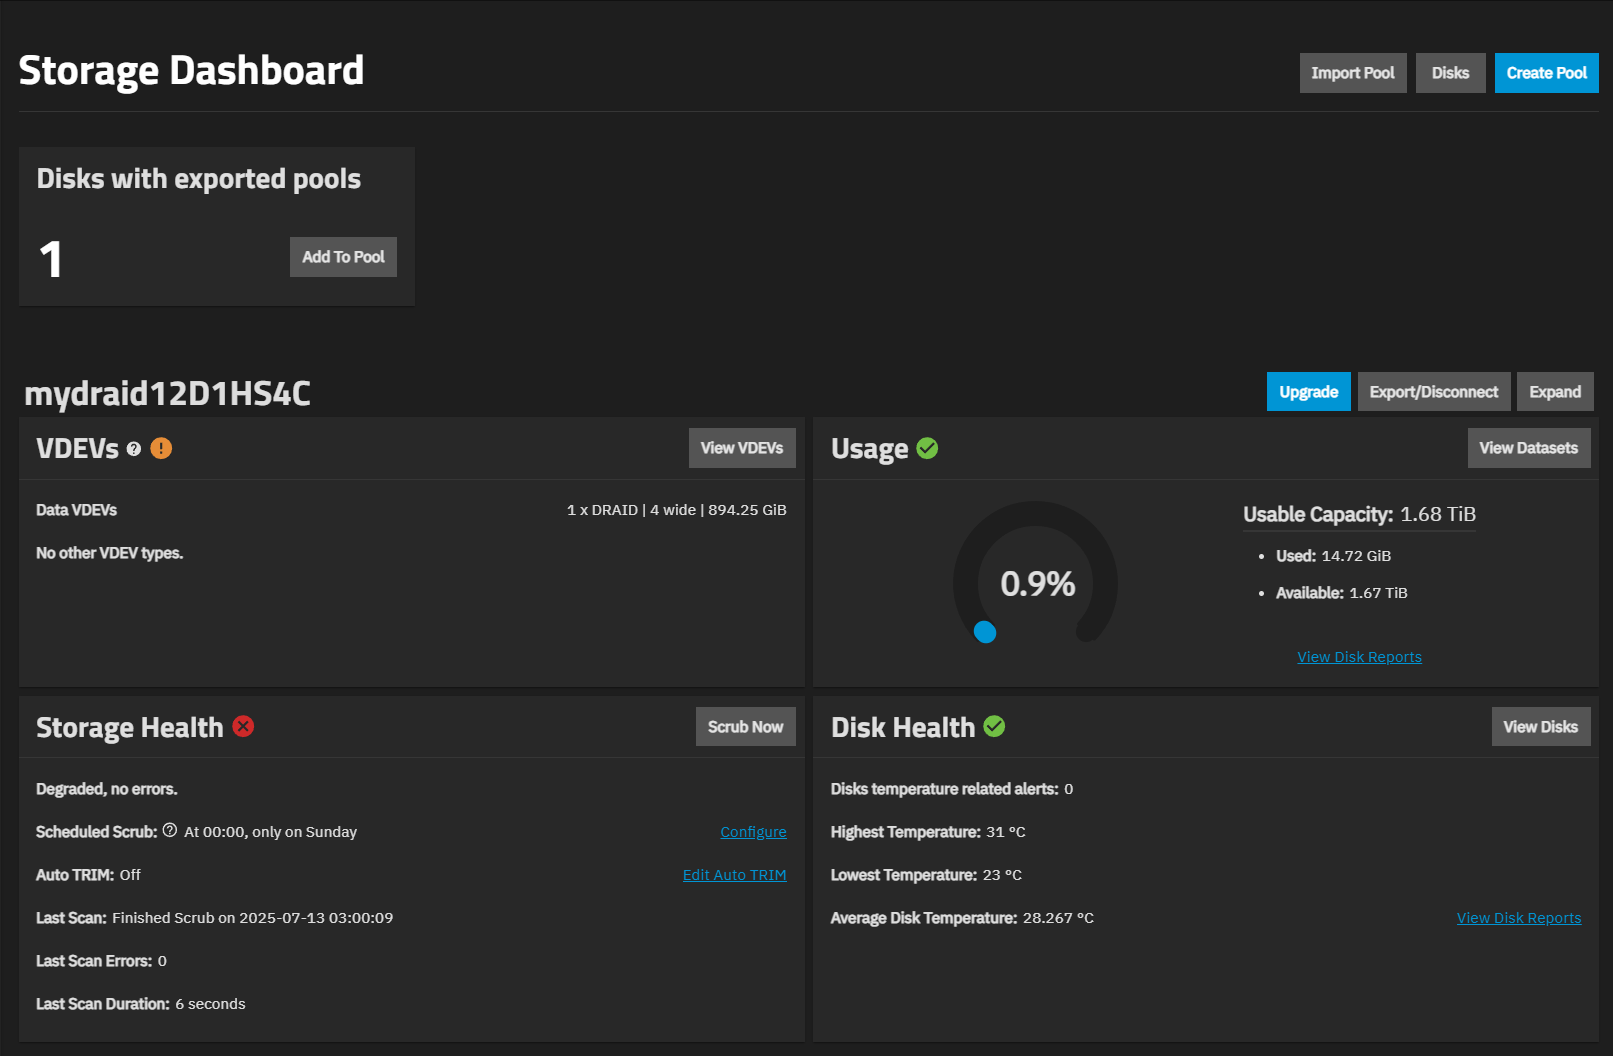
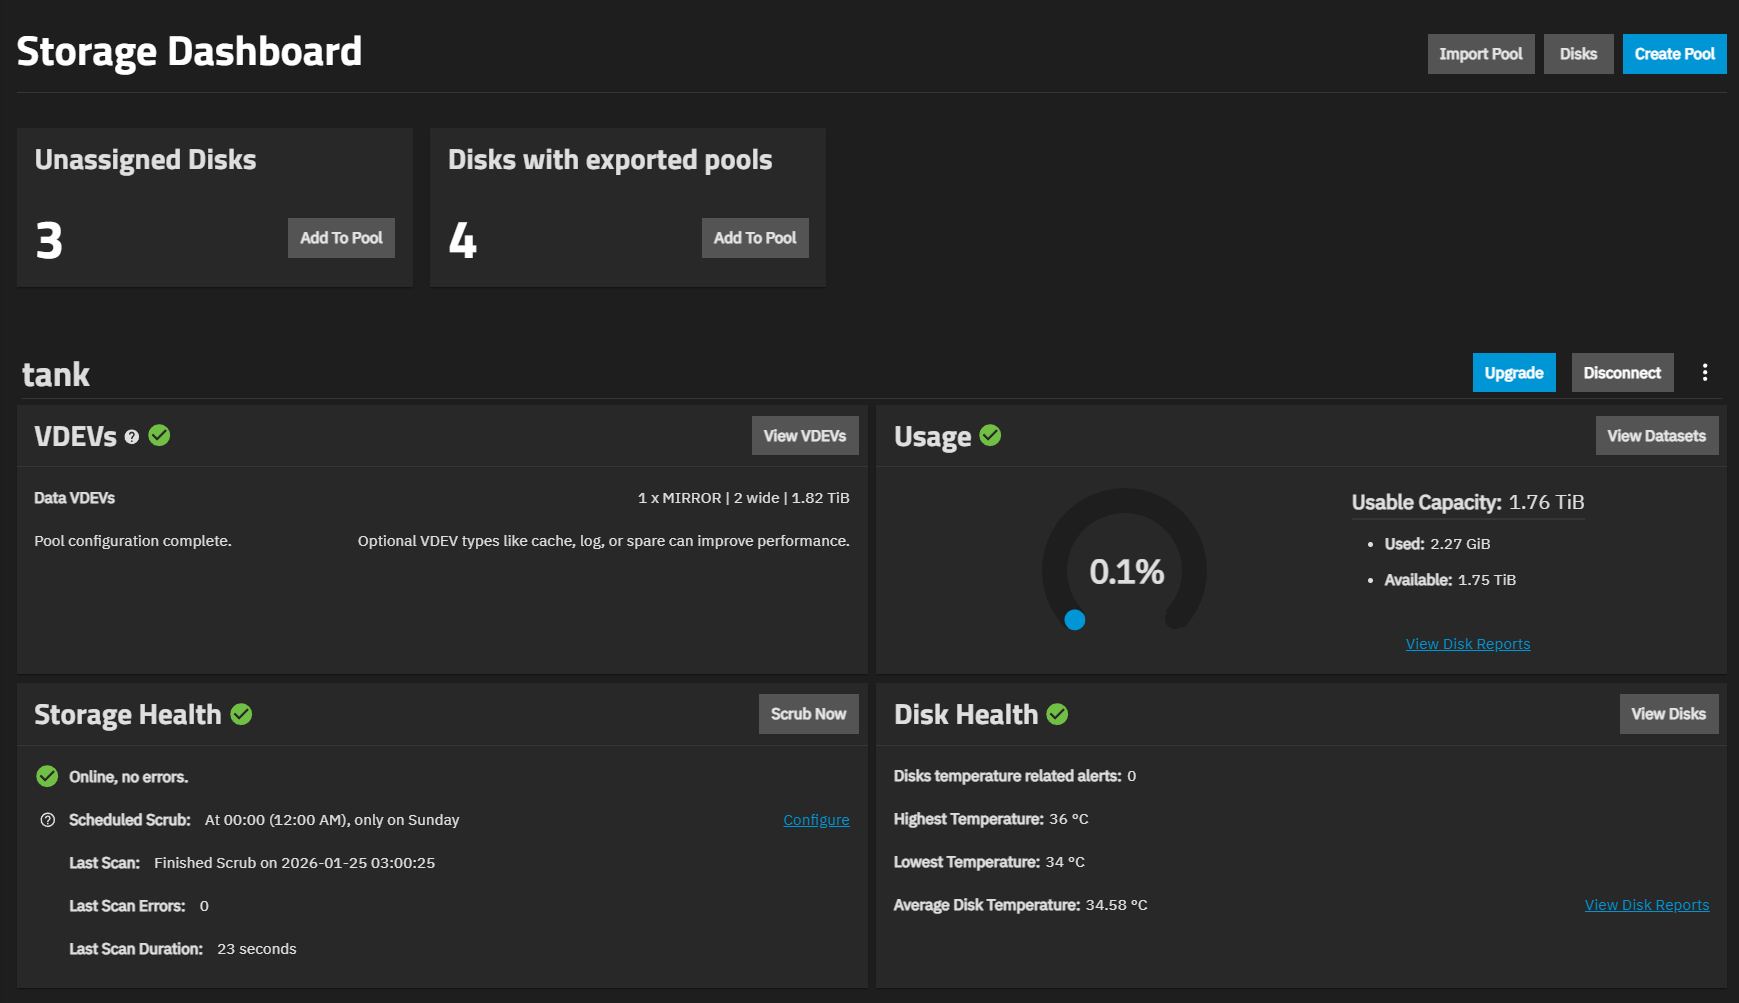
PD-2497 Update Storage UI ref and tutorials with changes in release 26
These changes apply to the 26 release and do not backport to 25.10.x or earlier releases.

This PR updates the screenshots for the Storage Dashboard and the Disconnect window, and the content related to deleting, exporting, expanding, and setting Auto TRIM for a pool.

It updates the UI ref with new screenshots and reorganizes the flow  for all buttons and functions for a pool. It moves the Update dialog to an expand bullet point with the other button functions.

It updates the ManagePoolsSCALE.md tutorial with new screenshots and instructions for the Disconnect button, which provides the Export Pool and Delete Pool options. It also cleans up the bullet list that did not follow parallel construction rules.
Each area impacted by changes on the Storage Dashboard are updated with new information.

diff --git a/content/SCALE/SCALEUIReference/Storage/_index.md b/content/SCALE/SCALEUIReference/Storage/_index.md
@@ -32,6 +32,10 @@ The **Create Pool** button in the center of the screen opens the **[Pool Creatio
 
 ## Storage Dashboard
 
+After adding pools, the dashboard shows the [pool widgets](#pool-widgets), the **Update** and **Disconnect** buttons, and a <span class="material-icons">more_vert</span> dropdown menu with more options: **Expand Pool** and **AutoTrim**.
+
+{{< trueimage src="/images/SCALE/Storage/StorageDashboardWithPool.png" alt="Storage Dashboard with Pool" id="Storage Dashboard with Pool" >}}
+
 The buttons at the top right of the **Storage Dashboard** screen provide access to pool and disk functions:
 
 * {{< expand "Import Pool" "v" >}}
@@ -50,41 +54,55 @@ TrueNAS detects these as present on the system but not yet connected in TrueNAS.
 * **Disks** opens the **[Disks]({{< ref "DisksScreen" >}})** screen.
 * **Create Pool** opens the **[Pool Creation Wizard]({{< ref "PoolCreateWizardScreens" >}})**.
 
-After adding pools, the dashboard shows the [pool widgets](#pool-widgets) and additional buttons.
+* {{< expand "Disconnect Button" "v" >}}
+The **Disconnect** button opens a **Disconnect Pool: *poolname*** window with two options: **Export Pool** and **Delete Pool**.
+Each option changes what shows in this window.
 
-{{< trueimage src="/images/SCALE/Storage/StorageDashboardWithPool.png" alt="Storage Dashboard with Pool" id="Storage Dashboard with Pool" >}}
+The **Disconnect Pool** window shows a different warning statement below the delete and export options.
+The **Delete Pool** warning states all data is deleted from the pool, and instructs users to back up critical data before deleting the pool.
+The **Export Pool** warning states you lose access to data in the exported pool until you import the pool, and instructs users to back up criical data before exporting the pool.
 
-* {{< expand "Export/Disconnect" "v" >}}
-**Export/Disconnect** opens the **Export/disconnect pool: *poolname*** window where users can export, disconnect, or delete a pool.
-
-The **Export/disconnect pool** window includes a warning stating that data becomes unavailable after export and that selecting **Destroy Data on this pool** destroys data on the pool disks.
+Expand the **System dataset will be moved off this pool** message to shows the full statement about the system dataset.
 
 {{< hint type=important >}}
-Exporting/disconnecting can be a destructive process!
+Exporting/deleting can be a destructive process!
 Back up all data before performing this operation. You might not be able to recover data lost through this operation.
 {{< /hint >}}
 
-{{< trueimage src="/images/SCALE/Storage/ExportDisconnectPoolWindow.png" alt="Export/Disconnect Pool Window" id="Export/Disconnect Pool Window" >}}
+<div style="display: flex; gap: 20px; justify-content: center; flex-wrap: wrap;">
+  <figure style="margin: 0; flex: 1; max-width: 600px; text-align: center;">
+    <img src="/images/SCALE/Storage/Diconnect-DeletePoolWindow.png" alt="Disconnect Delete Pool Window" style="width: 100%; height: auto; display: block;">
+    <figcaption style="margin-top: 8px; font-style: bold; color: #555; text-align: left;">
+      <b>Figure 3: Disconnect Delete Pool Window</b>
+    </figcaption>
+  </figure>
 
-This window displays the share type (i.e., SMB share, etc.) affected by the export/disconnect operation if a share uses the pool.
+  <figure style="margin: 0; flex: 1; max-width: 600px; text-align: center;">
+    <img src="/images/SCALE/Storage/Disconnect-ExportPoolWindow.png" alt="Disconnect Export Pool Window" style="width: 100%; height: auto; display: block;">
+    <figcaption style="margin-top: 8px; font-style: bold; color: #555; text-align: left;">
+      <b>Figure 4: Disconnect Export Pool Window</b>
+    </figcaption>
+  </figure>
+</div>
 
-Disks in an exported pool become available to use in a new pool but remain marked as used by an exported pool.
+The **Remove all related configurations** and **Confirm Delete Pool** shows at the bottom of the window after selecting **Delete Pool**.
+The text field below shows after selecting the **Remove all related configuration** option.
+This field accepts typed or copy/paste of the pool name.
+
+**Deleted Saved Configurations from TrueNAS** and **Confirm Export Pool** shows at the bottom of the window after selecting **Export Pool**.
+A text field below these options shows after selecting **Confirm Export Pool**.
+This field accepts typed or copy/paste of the pool name.
+
+**Disconnect** activates after entering the pool name in the confirmation field.
+
+Disks in an exported pool become available for use in a new pool but remain marked as used by an exported pool.
 If you select a disk used by an exported pool for use in a new pool, the system displays a warning message about the disk.
 
-{{< truetable >}}
-| Setting | Description |
-|---------|-------------|
-| **Destroy data on this pool?** | Select to erase all data on the pool. A field displays where you enter the pool name to confirm the operation before the **Export/Disconnect** button activates. |
-| **Delete configuration of shares that use this pool** | Enabled by default to remove the share connection to this pool. Exporting or disconnecting the pool deletes the configuration of shares using this pool. You must reconfigure the shares affected by this operation. |
-| **Confirm Export/Disconnect** | (Required) Select to confirm the operation and accept the warnings displayed. Activates the **Export/Disconnect** button. |
-{{< /truetable >}}
-
-**Export/Disconnect** executes the process and begins the pool export or disconnect.
 A status window shows progress. When complete, a final dialog states that the export/disconnect completed successfully.
 {{< /expand >}}
 
 * {{< expand "Expand Pool" "v" >}}
-Select **Expand Pool** to increase the pool size to match all available disk space.
+Select **Expand Pool** on the <span class="material-icons">more_vert</span> dropdown menu to increase the pool size to match all available disk space.
 Users with pools using virtual disks use this option to resize these virtual disks apart from TrueNAS.
 
 {{< trueimage src="/images/SCALE/Storage/ExpandPoolDialog.png" alt="Expand Pool Dialog" id="Expand Pool Dialog" >}}
@@ -92,7 +110,35 @@ Users with pools using virtual disks use this option to resize these virtual dis
 **Confirm** activates the **Continue** button.
  {{< /expand >}}
 
-* **[Upgrade](#upgrade-dialog)**
+* {{< expand "AutoTrim" "v" >}}
+
+The **Auto TRIM** option on the <span class="material-icons">more_vert</span> dropdown menu opens the **AutoTRIM** dialog.
+The **ZFS Health** widget shows whether this function is set to on.
+
+{{< trueimage src="/images/SCALE/Storage/PoolOptionsAuotTRIM.png" alt="Pool Option Auto TRIM" id="Pool Option Auto TRIM" >}}
+
+When enabled, **Auto TRIM** allows TrueNAS to periodically review data blocks and identify which empty blocks of obsolete blocks it can delete.
+Leave unselected to incorporate day block overwrites when a device write is started (default).
+Select **Confirm** to activate **Save**.
+
+For more details about TRIM in ZFS, see the `autotrim` property description in [zpool.8](https://zfsonlinux.org/manpages/0.8.1/man8/zpool.8.html).
+  {{< /expand >}}
+
+* {{< expand "Upgrade" "v" >}}
+
+The **Storage Dashboard** shows the **Upgrade** button for existing pools after an upgrade to a new TrueNAS release that includes new [OpenZFS feature flags]({{< ref "VersionNotes.md#component-versions" >}}).
+Newly created pools are always up-to-date with the OpenZFS feature flags in the installed TrueNAS release.
+
+{{< include file="/static/includes/UpgradePools.md" >}}
+
+{{< trueimage src="/images/SCALE/Storage/StorageDashboardUpgradPoolConfirmation.png" alt="Upgrade Pool Dialog" id="Upgrade Pool Dialog" >}}
+
+The upgrade only takes a few seconds and is non-disruptive. However, it is best to upgrade when the pool is not in heavy use.
+
+The upgrade process suspends I/O for a short period but is nearly instantaneous on a quiet pool.
+
+It is not necessary to stop any sharing services to upgrade the pool.
+{{< /expand >}}
 
 ## Storage Dashboard Widgets
 
@@ -100,14 +146,13 @@ After adding a pool, the screen displays storage and pool widgets.
 
 The set of four pool widgets and the **Export/Disconnect** and **Expand** buttons show for each pool created on the system.
 
-
 Each set of pool widgets provides access to screens for disks, datasets, VDEVs, snapshots, quotas, and pool ZFS functions for the pool.
 For example, **Manage Devices** on the **Topology** widget opens the **Devices** screen with the VDEVs configured for only that pool.
 
-### Unassigned Disks Widget
+### Unassigned Disks and Disks with exported pools Widgets
 
 The **Unassigned Disks** widget at the top of the **Storage Dashboard** shows when disks are available to add to a new or existing pool.
-If the system has disks available and that are associated with exported pools, the **Disks with Exported pools** shows instead.
+If the system has disks available and that are associated with exported pools, the **Disks with exported pools** shows instead.
 The number of available disks shows, and the **Add to Pool** button.
 The pool with the system dataset, and the state of the pool, shows in the dialog.
 
@@ -195,7 +240,7 @@ The **Storage Health** widget shows health-of-the-pool information.
 Possible widget details include:
 * Pool status shows the pool status as** Online, no errors** or **Offline**, **Degraded no errors**.
 * **Scheduled Scrub** shows the time based on a 24-hour clock and frequency of a scheduled scrub (the day the task runs).
-* **Auto TRIM** shows the auto trim feature as on or off.
+* **Auto TRIM** shows when the auto trim feature is on or off.
 * **Last Scan** shows the date and time of the last completed scrub.
 * **Last Scan Errors** shows the number of errors detected during the last scrub.
 * **Last Scan Duration** shows the time, in minutes and seconds, that the last scrub ran.
@@ -245,18 +290,6 @@ Using a multiple of *seven* ensures the scrub always occurs on the same weekday.
 Starting in TrueNAS 25.10, resilver priority settings are now located in **System Settings > Advanced Settings** on the **Storage** widget.
 {{< /hint >}}
 
-#### Auto TRIM Dialog
-
-The **Edit Auto TRIM** option on the **ZFS Health** widget opens a dialog to set **Auto TRIM**.
-
-{{< trueimage src="/images/SCALE/Storage/PoolOptionsAuotTRIM.png" alt="Pool Option Auto TRIM" id="Pool Option Auto TRIM" >}}
-
-When enabled, **Auto TRIM** allows TrueNAS to periodically review data blocks and identify which empty blocks of obsolete blocks it can delete.
-Leave unselected to incorporate day block overwrites when a device write is started (default).
-Select **Confirm** to activate **Save**.
-
-For more details about TRIM in ZFS, see the `autotrim` property description in [zpool.8](https://zfsonlinux.org/manpages/0.8.1/man8/zpool.8.html).
-
 #### Prune Deduplication Table Dialog
 
 The **Prune Deduplication Table** dialog shows pruning measurement options the system should use when pruning the deduplication table (DDT).
@@ -303,21 +336,6 @@ TrueNAS complies with SAS/SATA specifications and reports temperatures in Celsiu
 **View Disks** opens the **Storage > [Disk]({{< ref "DisksScreen" >}})** screen.
 
 **View Reports** opens the **Report** screen for the disks in the selected pool.
-
-## Upgrade Dialog
-
-The **Storage Dashboard** shows the **Upgrade** button for existing pools after an upgrade to a new TrueNAS release that includes new [OpenZFS feature flags]({{< ref "VersionNotes.md#component-versions" >}}).
-Newly created pools are always up-to-date with the OpenZFS feature flags in the installed TrueNAS release.
-
-{{< include file="/static/includes/UpgradePools.md" >}}
-
-{{< trueimage src="/images/SCALE/Storage/StorageDashboardUpgradPoolConfirmation.png" alt="Upgrade Pool Dialog" id="Upgrade Pool Dialog" >}}
-
-The upgrade only takes a few seconds and is non-disruptive. However, it is best to upgrade when the pool is not in heavy use.
-
-The upgrade process suspends I/O for a short period but is nearly instantaneous on a quiet pool.
-
-It is not necessary to stop any sharing services to upgrade the pool.
 
 <div class="noprint">
 

diff --git a/content/SCALE/SCALETutorials/Storage/ManagePoolsScale.md b/content/SCALE/SCALETutorials/Storage/ManagePoolsScale.md
@@ -25,7 +25,9 @@ This article provides instructions on pool management functions available in the
 ## Setting Up Auto TRIM
 
 Select **Storage** on the main navigation panel to open the **Storage Dashboard**.
-Locate the **Storage Health** widget for the pool, then click the **Edit Auto TRIM**. The **Pool Options for *poolname*** dialog opens.
+To see if the AutoTRIM function is enabled, locate the **Storage Health** widget for the pool.
+
+To enable or disable the function, click on the <span class="material-icons">more_vert</span> dropdown menu and select **AuotTRIM** to open the **Pool Options for *poolname*** dialog.
 
 {{< trueimage src="/images/SCALE/Storage/PoolOptionsAuotTRIM.png" alt="Pool Edit Auto TRIM Dialog" id="Pool Edit Auto TRIM Dialog" >}}
 
@@ -38,25 +40,39 @@ Auto TRIM can impact pool performance, so the default setting is disabled.
 
 For more details about TRIM in ZFS, see the `autotrim` property description in [zpool.8](https://zfsonlinux.org/manpages/0.8.1/man8/zpool.8.html).
 
-## Exporting/Disconnecting or Deleting a Pool
+## Exporting or Deleting a Pool
 
-Use the **Export/Disconnect** button to disconnect a pool and transfer drives to a new system where you can import the pool.
-It also lets you completely delete the pool and any data stored on it.
+Use the **Disconnect** button to delete or export a pool and transfer drives to a new system where you can import the pool.
+Deleting the pool also deletes any data stored on it.
 
-Click on **Export/Disconnect** on the **Storage Dashboard**.
+Backup critical data stored in the pool you intend to export or delete before performing these procedures!
 
-{{< trueimage src="/images/SCALE/Storage/ExportDisconnectPoolWindow.png" alt="Export/Disconnect Pool Window" id="Export/Disconnect Pool Window" >}}
+Click on **Disconnect** for the pool on the **Storage Dashboard** to open the **Disconnect *poolname** window.
 
-A dialog displays showing any system services affected by exporting the pool, and options based on services configured on the system.
+### Exporting a Pool
 
-To delete the pool and erase all the data on the pool, select **Destroy data on this pool**.
-The pool name field displays at the bottom of the window. Type the pool name into this field. To export the pool, do not select this option.
+After backing up critical data stored in the pool you plan to export, click **Disconnect** for the pool.
 
-Select **Delete saved configurations from TrueNAS?** to delete shares and saved configurations on this pool.
+Click **Export Pool** in the **Disconnect *poolname** window.
 
-Select **Confirm Export/Disconnect**
+{{< trueimage src="/images/SCALE/Storage/Disconnect-ExportPoolWindow.png" alt="Export Pool Window" id="Export Pool Window" >}}
 
-Click **Export/Disconnect**. A confirmation dialog displays when the export/disconnect completes.
+Leave **Delete saved configuration from TrueNAS?** option selected and then select the **Confirm Export Pool** option to activate the **Disconnect** button.
+
+Click **Disconnect** to begin the export.
+
+### Deleting a Pool
+
+After backing up critical data stored in the pool you plan to export, click **Disconnect** for the pool.
+
+Click **Delete Pool** in the **Disconnect *poolname** window.
+
+{{< trueimage src="/images/SCALE/Storage/Diconnect-DeletePoolWindow.png" alt="Delete Pool Window" id="Delete Pool Window" >}}
+
+To delete the pool and erase all the data on the pool, leave **Remove all releated configurations** selected, and then select **Confirm Delete Pool**.
+Enter the pool name in the confirmation text field, to activate the **Disconnect** button.
+
+Click **Disconnect** to delete the pool. A confirmation dialog opens when the delete operation completes.
 
 ## Upgrading a Pool
 
@@ -77,17 +93,17 @@ It is not necessary to stop sharing services to upgrade the pool.
 
 ## Running a Pool Data Integrity Check (Scrub)
 
+{{< hint type=note >}}
+A scrub is a data integrity check of your pool. Scrubs identify data integrity problems, detect silent data corruptions caused by transient hardware issues, and provide early disk failure alerts.
+{{< /hint >}}
+
 Use **Scrub Now** on the **Storage Health** pool widget to start a pool data integrity check.
 
 {{< trueimage src="/images/SCALE/Storage/StorageHealthWidget.png" alt="Storage Health Widget" id="Storage Health Widget" >}}
 
 Click **Scrub Now** to open the **Scrub Pool** dialog, then click **Start Scrub** to begin the process.
 
-If TrueNAS detects problems during the scrub operation, it either corrects them or generates an [alert]({{< ref "/SCALE/SCALEUIReference/TopToolbar/Alerts" >}}) in the web interface.
-
-{{< hint type=note >}}
-A scrub is a data integrity check of your pool. Scrubs identify data integrity problems, detect silent data corruptions caused by transient hardware issues, and provide early disk failure alerts.
-{{< /hint >}}
+If TrueNAS detects problems during the scrub operation, it corrects them or generates an [alert]({{< ref "/SCALE/SCALEUIReference/TopToolbar/Alerts" >}}) in the web interface.
 
 ### Scheduling Scrub Tasks
 
@@ -139,7 +155,7 @@ When you use one of the above methods, TrueNAS does not automatically expand the
 
 To expand an existing pool:
 
-1. Navigate to **Storage** and click **Expand Pool** above the **Usage** widget.  
+1. Navigate to **Storage**, click on the <span class="material-icons">more_vert</span> dropdown menu, and select **Expand Pool**.  
 2. Select **Confirm** in the **Expand Pool** pop-up screen.  
 3. Click **Continue** to initiate the pool expansion process.  
 
@@ -184,7 +200,7 @@ You can use the [RAIDZ Extension Calculator]({{< ref "/References/ExtensionCalcu
 
 {{< include file="/static/includes/ExpandedVdevReporting.md" >}}
 
-For more information, see [Jim Salter's article](https://arstechnica.com/gadgets/2021/06/raidz-expansion-code-lands-in-openzfs-master/) at Ars Technica and the upstream [RAIDZ extension](https://github.com/openzfs/zfs/pull/15022) PR, sponsored by iXsystems, at OpenZFS.
+For more information, read the [article written by Jim Salter](https://arstechnica.com/gadgets/2021/06/raidz-expansion-code-lands-in-openzfs-master/) at Ars Technica and the upstream [RAIDZ extension](https://github.com/openzfs/zfs/pull/15022) PR, sponsored by iXsystems, at OpenZFS.
 See also ["ZFS RAIDZ Expansion Is Awesome but Has a Small Caveat"](https://louwrentius.com/zfs-raidz-expansion-is-awesome-but-has-a-small-caveat.html) by Louwrentius for an in-depth discussion of lost capacity and recovering overhead.
 {{< /expand >}}
 
@@ -227,11 +243,14 @@ To add a VDEV to an existing pool, you can:
 
   {{< trueimage src="/images/SCALE/Storage/AddToPoolExistingPoolWindow.png" alt="Add To Pool - Existing Pool" id="Add To Pool - Existing Pool" >}}
 
+or
+
 * Click **View VDEVs** on the **VDEVs** widget to open the ***Poolname* VDEVs** screen, then click **Add VDEV** to open the **Add Vdevs to Pool** wizard.
 
   {{< trueimage src="/images/SCALE/Storage/AddVdevsToPoolScreen.png" alt="Add VDEVs to Pool Wizard" id="Add VDEVs to Pool Screen" >}}
 
 Adding a vdev to an existing pool follows the same process as documented in [Create Pool]({{< ref "CreatePoolWizard" >}}).
+
 Click on the type of vdev you want to add. For example, to add a spare, click on **Spare** to show the vdev spare options.
 
 {{< trueimage src="/images/SCALE/Storage/AddVdevToPoolSpareScreen.png" alt="Add VDEVs to Pool Spare Example" id="Add VDEVs to Pool Spare Example" >}}
@@ -347,12 +366,26 @@ Removing these devices does not impact data integrity but can significantly impa
 In addition, you can remove a data VDEV from an existing pool under specific circumstances.
 This process preserves data integrity but has multiple requirements:
 
-* The pool must be upgraded to a ZFS version with the `device_removal` feature flag.
+* Upgrade the pool with the `device_removal` zfs feature flag.
+
+  The pool must be upgraded to a ZFS version with the `device_removal` feature flag.
   The system shows the [**Upgrade** button](#upgrading-a-pool) after upgrading TrueNAS when new ZFS feature flags are available.
-* All top-level VDEVs in the pool must be *only* mirrors or stripes.
-* Special VDEVs cannot be removed when RAIDZ data VDEVs are present.
-* All top-level VDEVs in the pool must use the same basic allocation unit size (`ashift`).
-* The remaining data VDEVs must contain sufficient free space to hold all data from the removed VDEV.
+
+* Use mirror or stripe VDEVs.
+  
+  All top-level VDEVs in the pool must be *only* mirrors or stripes.
+
+* Keep special VDEVs in RAIDz data VDEVs.
+  
+  Special VDEVs cannot be removed when RAIDZ data VDEVs are present.
+
+* Use the same basice allocation unit size.
+  
+  All top-level VDEVs in the pool must use the same basic allocation unit size (`ashift`).
+
+* Maintain sufficient free space in the data VDEV for removed data.
+  
+  The remaining data VDEVs must contain sufficient free space to hold all data from the removed VDEV.
 
 It is generally not possible to remove a device when a RAIDZ data VDEV is present.
 

diff --git a/content/SCALE/SCALETutorials/Storage/_index.md b/content/SCALE/SCALETutorials/Storage/_index.md
@@ -21,12 +21,12 @@ This section also provides access to datasets, zvols, quotas, and permissions.
 
 {{< trueimage src="/images/SCALE/Storage/StorageDashboardWithPool.png" alt="TrueNAS Storage Daashboard" id="TrueNAS Storage Dashboard" >}}
 
-Use the **Import Pool** button to reconnect pools exported/disconnected from the current system or created on another system.
+Use the **Import Pool** button to reconnect pools exported from the current system or created on another system.
 This also reconnects pools after users reinstall or upgrade the TrueNAS system.
 
-Use the **Disks** button to manage, wipe, and import storage disks that TrueNAS uses for ZFS data storage.
+Use the **Disks** button to access the **Disks** screen where you can manage, wipe, and import the storage disks that TrueNAS uses for ZFS data storage.
 
-Use the **Create Pool** to create ZFS data storage “pools” from physical disks. Pools efficiently store and protect data.
+Use the **Create Pool** to open the **Pool Creation Wizard** where you can create ZFS data storage pools from physical disks. Pools efficiently store and protect data.
 
 The **Storage** screen displays all the pools added to the system.
 Each pool shows statistics and status, along with buttons to manage the different elements of the pool.
